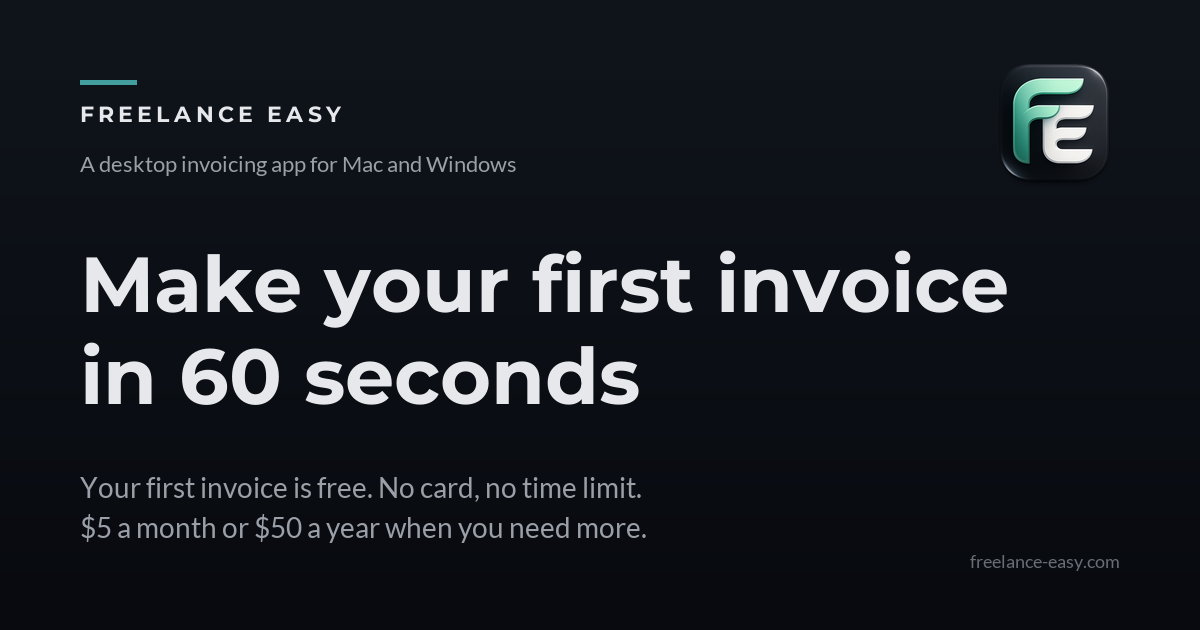
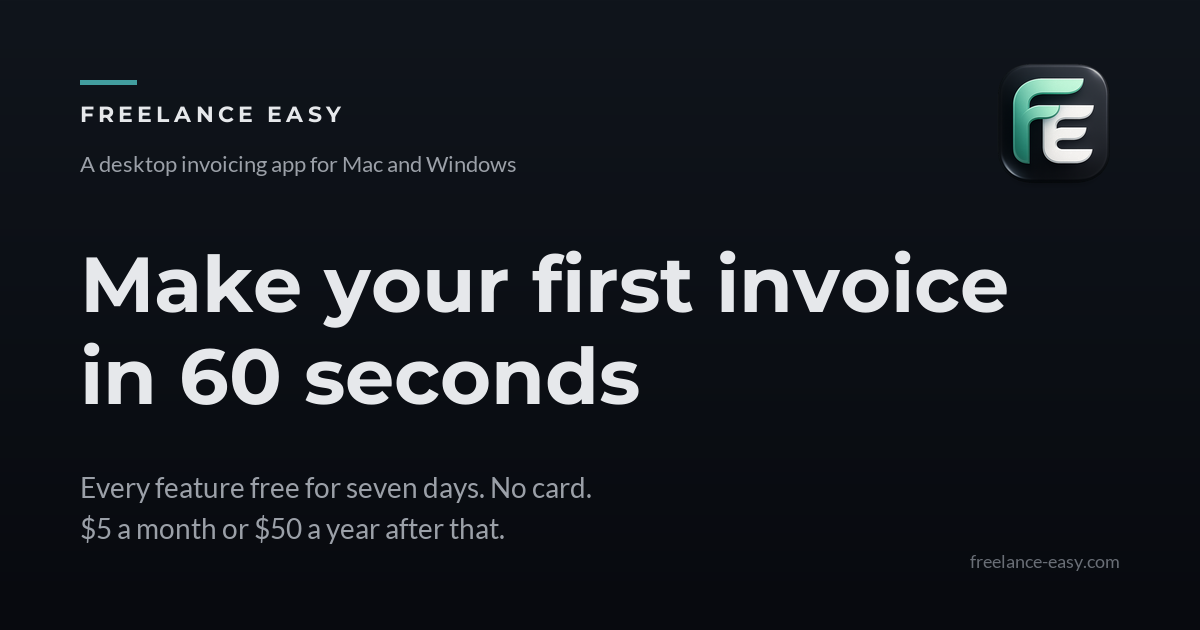
OG image: today's offer, not the retired "first invoice free, no time limit"
The social card (assets/og-image.png, og:image and twitter:image on the home page) still read "Your first invoice is free. No card, no time limit. $5 a month or $50 a year when you need more.", the v2.7 offer that was superseded by the seven-day trial before it ever shipped; the interim table in HANDOFF never listed the image. The two offer lines in scripts/generate-og-image.py now match og:description: "Every feature free for seven days. No card." / "$5 a month or $50 a year after that." (LicenseServer config.FREE_TRIAL_DAYS default 7, not set on Railway production; schemas.Plan monthly + annual; the app's /inactive plan cards $50 a year / $5 a month).

Regenerated with the same fonts (InvoiceGenerator static/fonts TTFs): the changed pixels are confined to the offer lines, box (80, 477)-(646, 544); the rest of the 1200x630 card is pixel-identical.

Changed region(s): [[0.0617, 0.754, 0.5242, 0.8746], [0.0617, 0.8143, 0.0925, 0.8746]]

diff --git a/scripts/generate-og-image.py b/scripts/generate-og-image.py
@@ -130,8 +130,8 @@ def _draw_headline(draw: ImageDraw.ImageDraw) -> None:
 
 def _draw_subtitle(draw: ImageDraw.ImageDraw) -> None:
     font = _load_font(F_LATO_REGULAR, 28)
-    line1 = "Your first invoice is free. No card, no time limit."
-    line2 = "$5 a month or $50 a year when you need more."
+    line1 = "Every feature free for seven days. No card."
+    line2 = "$5 a month or $50 a year after that."
     x, y = 80, 470
     draw.text((x, y), line1, font=font, fill=TEXT_MUTED)
     bbox = draw.textbbox((x, y), line1, font=font)
